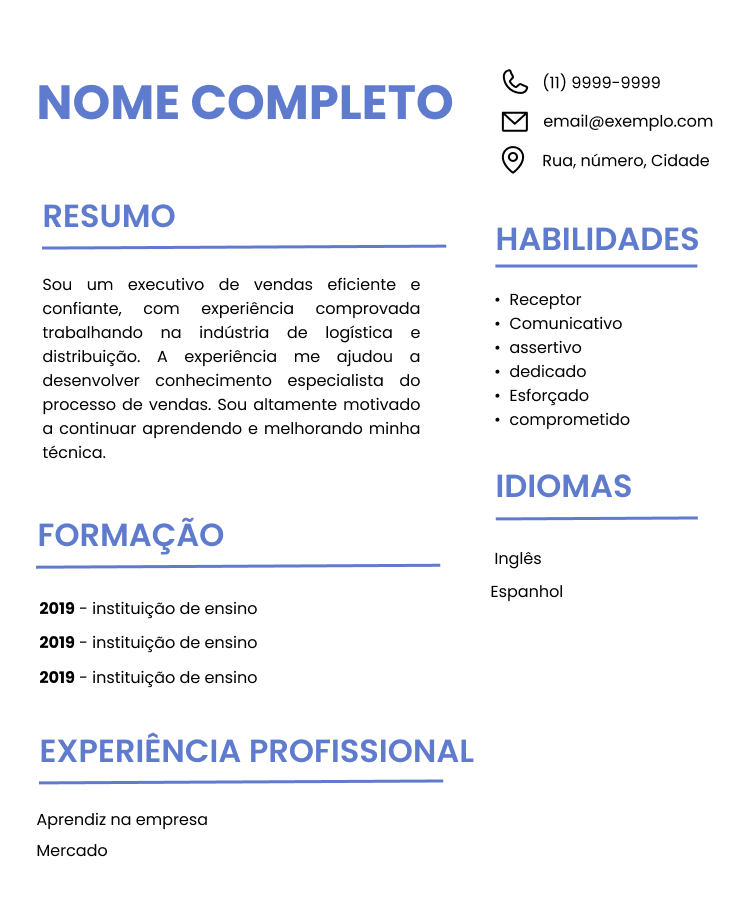
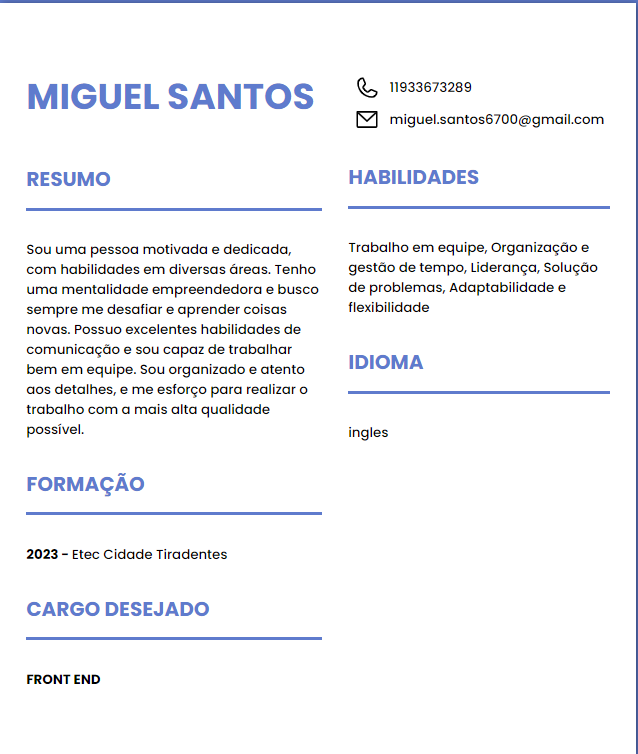
Finalizando lógica

diff --git a/pw III/js/meuCurriculo/script.js b/pw III/js/meuCurriculo/script.js
@@ -1,9 +1,12 @@
 
-//ESCONDER BOTTÃO
+//ESCONDER BOTÃO
 function esconderBotao() {
     document.querySelector("#print").style.display = "none";
     window.print()
 }
+
+const warning = document.querySelector(".warning")
+warning.classList.add("no-display")
 
 
 // PEGANDO DADOS DA URL
@@ -12,20 +15,29 @@ function esconderBotao() {
 const queryString = window.location.search;
 const urlParams = new URLSearchParams(queryString);
 
+
 const nomeCompleto = urlParams.get('nomeCompleto')
-const resumo = urlParams.get('resumo')
-
-
+const cargoDesejado = urlParams.get('cargoDesejado')
 const phone = urlParams.get('phone')
 const email = urlParams.get('email')
+const resumo = urlParams.get('resumo')
+const instituicao = urlParams.get('instituicao')
+const anoInstituicao = urlParams.get('anoInstituicao')
+const habilidades = urlParams.get('habilidades')
+const idioma = urlParams.get('idioma')
 
 
 // PEGANDO INFO
 
 const inputNomeCompleto = document.querySelector("#nomeCompleto")
-const inputResumo = document.querySelector("#resumo")
+const inputCargoDesejado = document.querySelector("#cargoDesejado")
 const inputPhone = document.querySelector("#phone")
 const inputEmail = document.querySelector("#email")
+const inputResumo = document.querySelector("#resumo")
+const inputAnoInstituicao = document.querySelector("#anoInstituicao")
+const inputInstituicao = document.querySelector("#instituicao")
+const inputHabilidades = document.querySelector("#habilidades")
+const inputIdioma = document.querySelector("#idioma")
 
 
 // MOSTRANDO
@@ -33,8 +45,29 @@ const inputEmail = document.querySelector("#email")
 
 inputNomeCompleto.innerHTML = nomeCompleto
 inputPhone.innerHTML = phone
-
-
-inputNomeCompleto.innerHTML = nomeCompleto
+inputEmail.innerHTML = email
 inputResumo.innerHTML = resumo
+inputCargoDesejado.innerHTML = cargoDesejado
+inputAnoInstituicao.innerHTML = `${anoInstituicao} - `
+inputInstituicao.innerHTML = instituicao
+inputHabilidades.innerHTML = habilidades
+inputIdioma.innerHTML = idioma
 
+// VERIFICAÇÃO
+
+const main = document.querySelector("#main")
+const print = document.querySelector("#print")
+
+
+
+
+if ( inputNomeCompleto.innerHTML == "" || inputPhone.innerHTML == "" || inputEmail.innerHTML == "" || inputResumo.innerHTML == "" || inputCargoDesejado.innerHTML == "" || inputAnoInstituicao.innerHTML == "" || inputInstituicao.innerHTML == "" || inputHabilidades.innerHTML == "" || inputIdioma.innerHTML == "" ) {
+
+
+    main.classList.add("no-display")
+    print.classList.add("no-display")  
+
+    
+    warning.classList.remove("no-display")
+    
+}

diff --git a/pw III/js/meuCurriculo/index.html b/pw III/js/meuCurriculo/index.html
@@ -22,20 +22,35 @@
 
             <h2>Gerar currículo</h2>
 
-            <input type="text" name="nomeCompleto" placeholder="Nome completo">
-            <input type="text" name="resumo" placeholder="Resumo">
-            <input type="text" name="phone" placeholder="Telefone">
-            <input type="text" name="email" placeholder="Email">
-            <input type="text" name="location" placeholder="Localização">
+            <input type="text" name="nomeCompleto" placeholder="Nome completo" required>
+            <div>
+                <input type="number" name="phone" placeholder="Telefone" required>
+                <input type="email" name="email" placeholder="Email" required>
+            </div>
 
+            <textarea type="text" name="resumo" placeholder="Resumo"></textarea required>
+                
+              <h3>Formação</h2>
+                <div>
+                    <input name="anoInstituicao" placeholder="Ano" type="number" required>
+                    <input name="instituicao" placeholder="Instituição" type="text" required>
+                </div>
+
+              <h3>Habilidades</h2>
+                <textArea name="habilidades" placeholder="Proativo, pontual..." required></textArea>
             
+                    <h3> Idioma </h3>
+                    <select name="idioma" required>
+                        <option value="ingles">Inglês</option>
+                        <option value="espanhol">Espanhol</option>
+                        <option value="semIdioma">Sem Idioma</option>
+                    </select>
+                
+            <input type="text" name="cargoDesejado" placeholder="Cargo desejado" required>
 
-            <input type="text" name="formacao" placeholder="Formação">
-            <input type="text" name="experienciaProfissional" placeholder="Experiência profissional">
-            <input type="text" name="habilidades" placeholder="Habilidades">
-            <input type="text" name="idiomas" placeholder="Idiomas">
-            <input type="text" name="phone" placeholder="Telefone">
-            <input type="submit" value="Gerar currículo">
+
+            <input type="submit" value="GERAR MEU CURRÍCULO">
+
             
 
         </form>

diff --git a/pw III/js/meuCurriculo/curriculo.html b/pw III/js/meuCurriculo/curriculo.html
@@ -12,7 +12,7 @@
 </head>
 <body>
     
-    <main>
+    <main id="main">
 
         <div>
             <h1 id="nomeCompleto">Nome completo</h1>
@@ -20,19 +20,17 @@
             <h2>Resumo</h2>
             <p id="resumo">Lorem ipsum dolor sit amet consectetur, adipisicing elit. Qui soluta nesciunt ducimus nulla, aspernatur magnam quaerat totam iure, quis commodi debitis consequuntur minus dolores, repudiandae illo reprehenderit nobis quas fugiat.</p>
 
-            <h2>FORMAÇÃO</h2>
+            <h2>Formação</h2>
+            <p > <strong id="anoInstituicao"> ano </strong> <span id="instituicao">instituição</span> </p>
 
-            <ul>
-                <li> <strong>2019</strong> instituição</li>
-                <li> <strong>2019</strong> instituição</li>
-                <li> <strong>2019</strong> instituição</li>
-            </ul>
+            <h2>Cargo Desejado</h2>
 
-            <h2>EXPERIÊNCIA PROFISSIONAL</h2>
-            <p>MERCADO</p>
-            <p>MERCADO</p>
-            
-        </div>      
+            <strong id="cargoDesejado">Front-end</strong>
+
+        </div>  
+        
+
+
         <div>
 
             <div class="icon">
@@ -50,26 +48,25 @@
             <div>
                 <h2>HABILIDADES</h2>
 
-                <ul>
-                    <li> Receptor </li>
-                    <li> Receptor </li>
-                    <li> Receptor </li>
-                    <li> Receptor </li>
-                </ul>
+                <p id="habilidades" >Habilidade</p>
             </div>
 
-            <h2>IDIOMAS</h2>
+            <h2>IDIOMA</h2>
 
-            <ul>
-                <li>Ingles</li>
-                <li>Ingles</li>
-            </ul>
+            <p id="idioma">Idioma</p>
 
         </div>
 
     </main>
 
     <p id="print" onclick="esconderBotao()"> IMPRIMIR </p>
+
+    <div class="warning">
+
+        <h1> AVISO </h1>
+        <p> Para a visualizaçãõ do currículo é necessário preencher todos os <br> campos do mesmo, acesse <a href="index.html">MeuCurrículo</a> e tente novamente. </p>
+
+    </div>
 
 
     <script src="script.js"></script>

diff --git a/pw III/js/meuCurriculo/style.css b/pw III/js/meuCurriculo/style.css
@@ -45,23 +45,55 @@ form {
     width: 30vw;
 }
 
-form input[type="text"] {
+form input[type="text"], [type="number"], [type="email"], form textarea {
     border: none;
     padding: 1.2rem 0rem;
     background: transparent;
     border-bottom: 1px solid var(--darkBlue);
     font-size: 1rem;
     font-weight: 900;
+    width: 100%;
+    text-transform: uppercase;
 }
 
-form input:focus {
+select {
+    border-radius: 5px;
+    margin-top: 1rem;
+    padding: .8rem .8rem;
+    background: transparent;
+    font-size: .8rem;
+    font-weight: 900;
+    width: 100%;
+    text-transform: uppercase;
+    margin-bottom: -1rem;
+}
+
+form input:focus, form textarea:focus, form select {
     outline: none;
 }
 
-form input::placeholder {
-    color: var(--darkBlue);
+form input::placeholder, form textarea::placeholder, option {
+    color: #07113d96;
     font-size: 1.3rem;
     font-weight: 900;
+    text-transform: capitalize;
+}
+
+form textArea {
+    padding: .5rem 0;
+}
+
+
+form div {
+    display: flex;
+    gap: 1rem;
+    width: 100%;
+}
+
+form h3 {
+    color: var(--darkBlue);
+    font-size: 1.4rem;
+    margin-bottom: -2.5rem;
 }
 
 aside {
@@ -70,7 +102,7 @@ aside {
     background: var(--lightBlue);
     padding: 1rem 4rem;
     width: 40%;
-    height: 110vh;
+    height: 100vh;
     align-items: center;
 
 }

diff --git a/pw III/js/meuCurriculo/curriculo.css b/pw III/js/meuCurriculo/curriculo.css
@@ -23,8 +23,8 @@ body {
 
 main {
     display: grid;
-    grid-template-columns: 1fr .5fr;
-    gap: 4rem; 
+    grid-template-columns: 4fr 1fr;
+    gap: 2rem; 
 
     background-color: white;
     width: 700px;
@@ -73,4 +73,37 @@ ul {
 
 #print:hover {
     color: rgba(0, 0, 0, 0.692);
+}
+
+.no-display {
+    display: none;
+}
+
+
+.warning {
+    background-color: white;
+    padding: 2rem 4rem;
+    border-radius: 5px;
+    margin: 0 1rem;
+}
+
+.warning h1 {
+    margin-bottom: 1rem;
+    color: var(--lightBlue);
+    padding: 0.4rem 0;
+    border-bottom: 4px solid var(--lightBlue);
+}
+
+.warning p {
+    font-size: 1.4rem;
+}
+
+.warning a {
+    color: #07113daf;
+    transition: .5s;
+}
+
+.warning a:hover {
+    color: var(--darkBlue);
+    transition: .5s;
 }
